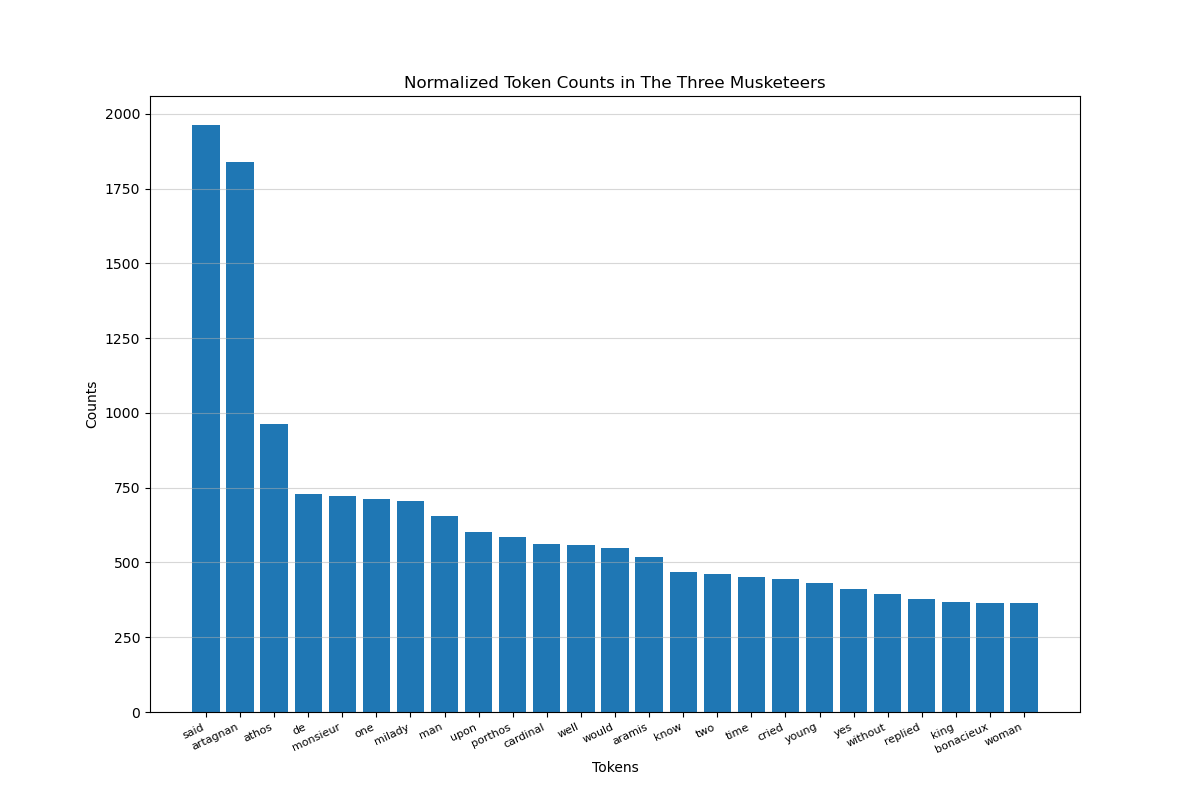
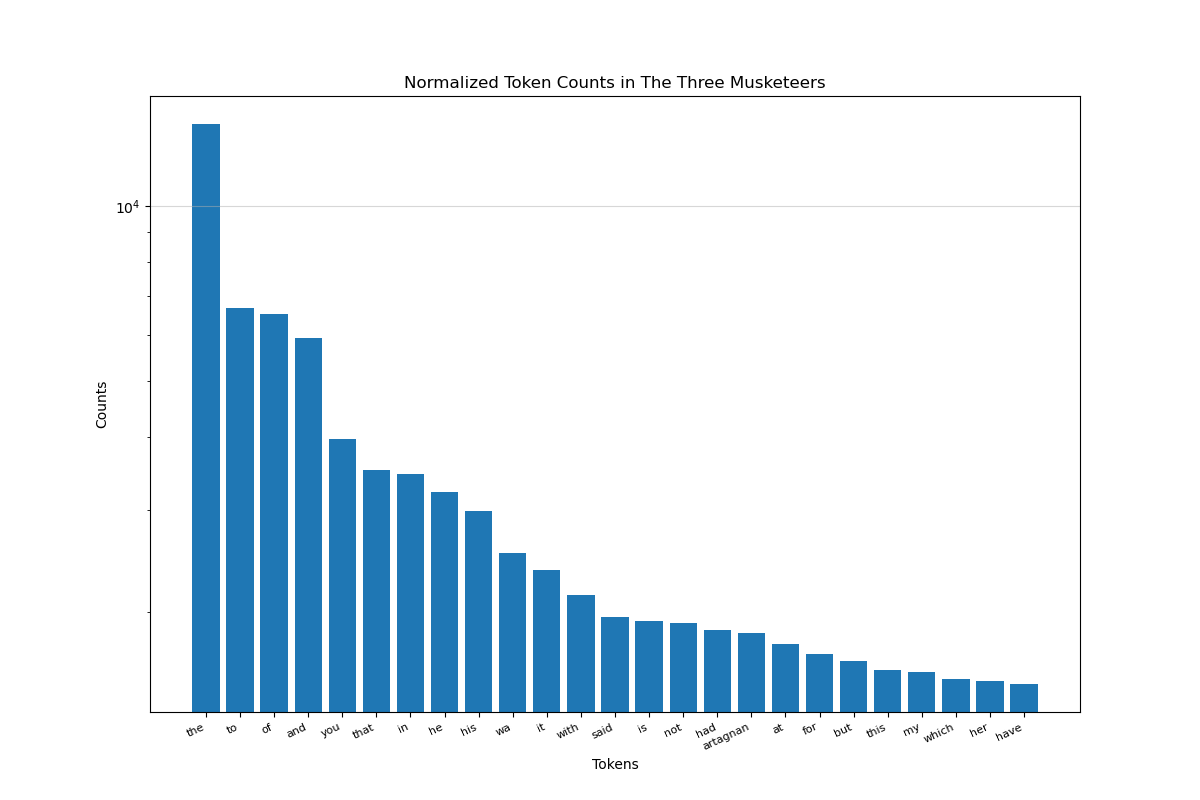
Normalization bugfix, updated .png, updated visualization args and y-axis log scale

diff --git a/normalize_text.py b/normalize_text.py
@@ -26,12 +26,12 @@ def normalize(tokens, args):
         tokens = [t.lower() for t in tokens]
     if args.stopwords:
         tokens = [t for t in tokens if t not in STOPWORDS]
-    if args.myopt:
-        tokens = [t for t in tokens if not (len(t) == 1 and t.isalpha())]
     if args.stem:
         tokens = [stem.stem(t) for t in tokens]
     if args.lemmatize:
         tokens = [lemma.lemmatize(t) for t in tokens]
+    if args.myopt:
+        tokens = [t for t in tokens if not (len(t) == 1 and t.isalpha())]
     return tokens
 
 # Use Counter() object to count token occurences and filter by most to least common

diff --git a/visualization.py b/visualization.py
@@ -7,8 +7,8 @@ from normalize_text import process_file
 args = SimpleNamespace(
     lowercase=True,
     stem=False,
-    lemmatize=False,
-    stopwords=True,
+    lemmatize=True,
+    stopwords=False,
     myopt=True
 )
 
@@ -19,6 +19,7 @@ tokens, counts = zip(*counted_tokens)
 # Data visualization logic
 plt.figure(figsize=(12,8))
 plt.bar(tokens[:25], counts[:25], align="center")
+plt.yscale("log")
 
 plt.xlabel("Tokens")
 plt.ylabel("Counts")
